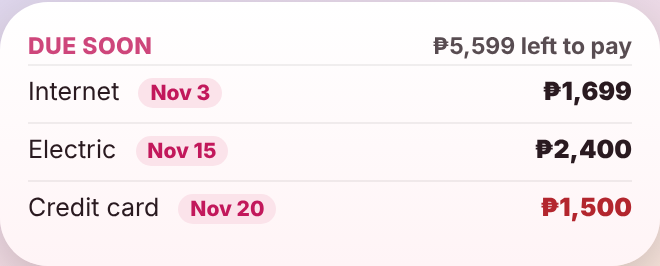
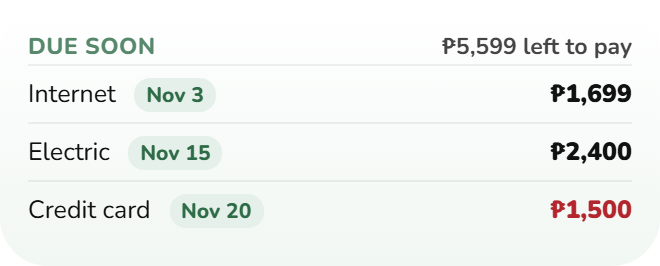
Green widget previews (H-64) with a retake tool; records and TEST-3 s28

diff --git a/BUG-HUNT.md b/BUG-HUNT.md
@@ -274,9 +274,9 @@ Areas: Day & night (theme, Home menu, Appearance), welcome O3a, set-up S1-S4, wi
 - Data: trip items due now agree on To-Pay (Bills › From your plans + Still to pay this month),
   Home's Due soon and Left to Spend (shared tripDue.ts; a trip starting before payday still
   counts whole, no double count: tripDue.test.mjs).
-- H-63 (to do next, same rule "amounts match on every screen"): trip items due are not yet on
+- H-63 DONE 2026-11-03 (Calendar, bell, Due soon / Month widgets; checks tripDue, BellTrips, Widgets): trip items due are not yet on
   the Calendar, the bell's Due soon, or the Due soon / Month widgets.
-- H-64 (look): the widgets' preview pictures in the phone's widget list are still the old
+- H-64 DONE 2026-11-03 (retaken green with tools/widget-previews.cjs; shows after a new build): the widgets' preview pictures in the phone's widget list are still the old
   crimson ones (assets/widget-preview); they should be redrawn green. Needs a new build.
 - Smoothness: new date rows open with animateNextLayout like the to-do date; the Widgets page
   uses the shared SettingsGroup rows; nothing new animates on its own.

diff --git a/TEST-3.md b/TEST-3.md
@@ -383,3 +383,13 @@ In Expo Go:
    trip starts after payday. Tick it paid: it leaves To-Pay and Due soon.
 Needs the installed app (build or update): Settings › Widgets: tap Add on one → your phone asks
 "Add to home screen?" → Add. Back in the app it says "On your home screen".
+
+## 28. PW1 + H-63 + H-64, 2026-11-03. NOT YET TESTED.
+In Expo Go:
+1. Create account (or save a guest), and Settings › Account & Security › Change password: type a
+   new password. A 4-part bar and a word appear: "abc" Too short, "mangos" Weak, "mangotree"
+   Okay, "MangoTree26" Good, "Mango-Tree-2026" Strong. 6 characters is still enough to save.
+2. A trip item with a due date: it's on the Calendar on that day (blue, "BKK trip · due"; tap opens
+   the trip), and in the bell under "Due in the next 14 days" when it's within 14 days.
+Needs the installed app (new build): the Due soon and Month widgets list it; in your phone's
+widget list (hold the home screen › Widgets › Finance Flow) the previews are green.

diff --git a/PROGRESS7.md b/PROGRESS7.md
@@ -1539,3 +1539,8 @@ design system "Finance Flow" https://claude.ai/artifact/CHvvSdWHaX5qkmDvSE3BVZ,
   only in the installed Android app). Her question "amounts not under bills/debts/loans/plans":
   answered: Bills with Repeats › Once. Follow-ups H-63 (calendar/bell/widgets), H-64 (green widget
   previews). Phone list TEST-3 s27.
+- 2026-11-03 (night): Cath picked PW1 and said yes to H-63 + H-64. BUILT (checks red-green):
+  password strength bar under new passwords (Create account, Change password; 6-char rule
+  unchanged); trip items due on the Calendar, bell and Due soon / Month widgets; widget preview
+  pictures retaken green (tools/widget-previews.cjs). Phone lists TEST-3 s26-s28. Widgets page,
+  widget lists and green previews need a NEW build (3.4.0?).
